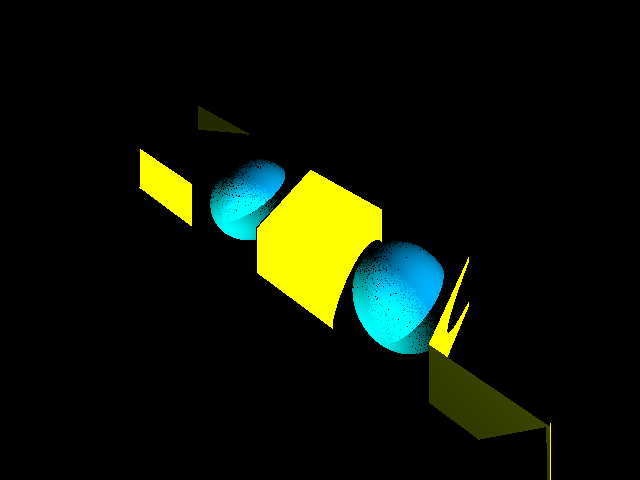
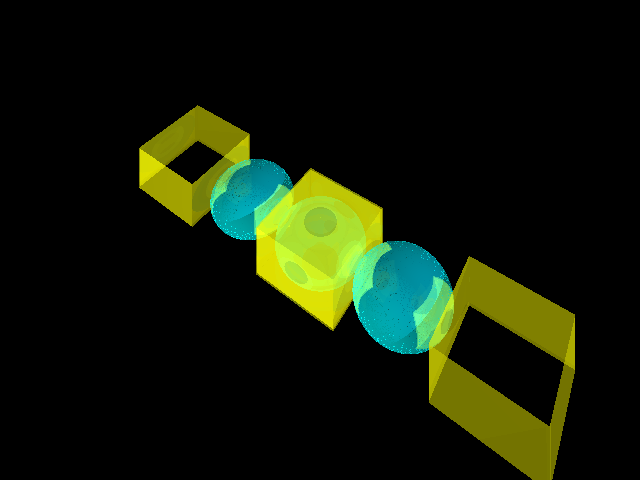
Ahora anda una refraction mentirosa, es transparente.

Changed region(s): [[0.2188, 0.2188, 0.9062, 1.0]]

diff --git a/src/main/java/org/cg/raycaster/ray/Raycaster.java b/src/main/java/org/cg/raycaster/ray/Raycaster.java
@@ -14,7 +14,8 @@ import org.cg.rendering.color.PlainColorChooser;
 
 public class Raycaster {
 
-	private final static int MAX_REFLECTIONS = 0;
+	private final static int MAX_REFLECTIONS = 5;
+	private final static int MAX_REFFRACTIONS = 5;
 	private Camera camera;
 
 	public Camera getCamera() {
@@ -25,6 +26,9 @@ public class Raycaster {
 		this.camera = camera;
 	}
 
+	PlainColorChooser colorChooser ;
+	boolean islightEnabled ;
+	LightColorChooser light ;
 	public BufferedImage raycast(boolean progress) {
 
 		camera.prepare();
@@ -40,14 +44,12 @@ public class Raycaster {
 		upauxi.scale(-(float) camera.dimensions.y);
 		startingPoint.add(upauxi);
 
-		LightColorChooser light = camera.getLightchooser();
-		boolean islightEnabled = camera.isLightingEnabled();
-		PlainColorChooser colorChooser = camera.getColorchooser();
+		light = camera.getLightchooser();
+		islightEnabled = camera.isLightingEnabled();
+		colorChooser = camera.getColorchooser();
 		for (int i = 0; i < camera.dimensions.x; i++) {
 
 			for (int j = 0; j < camera.dimensions.y; j++) {
-				float coef = 1.0f;
-				Color c = new Color(0, 0, 0);
 				Point3f pixelPos = new Point3f(startingPoint);
 
 				upauxi = new Vector3f(camera.up);
@@ -62,41 +64,8 @@ public class Raycaster {
 				Ray ray = new Ray(dir, pixelPos);
 
 				int level = 0;
-
-				do {
-					for (Primitive o : Scene.objects) {
-						if (o.intersectsBoundingBox(ray)) {
-							o.Intersects(ray);
-						}
-					}
-
-					if (ray.hit()) {
-
-						Vector3f n = ray.getObject().getNormal(
-								ray.getIntersectionPoint());
-
-						if (islightEnabled) {
-							c = light.getColor(ray, coef, c);
-							coef *= ray.getObject().getReflection();
-
-							Point3f newstartingPoint = ray
-									.getIntersectionPoint();
-							float reflet = 2 * n.dot(ray.direction);
-							Vector3f newDirection = new Vector3f(
-									ray.direction.x - reflet * n.x,
-									ray.direction.y - reflet * n.y,
-									ray.direction.z - reflet * n.z);
-
-							ray = new Ray(newDirection, newstartingPoint);
-							level++;
-						} else
-							c = colorChooser.getColor(ray);
-
-					} else
-						coef = 0;
-				} while (coef > 0.0f && level < MAX_REFLECTIONS
-						&& islightEnabled);
-
+				Color c = traceRay(ray, level, 1.0f);
+				
 				im.setRGB(i, j, c.getRGB());
 
 			}
@@ -109,6 +78,57 @@ public class Raycaster {
 		}
 
 		return im;
+	}
+	
+	
+	public Color traceRay(Ray ray, int depth, Float coef){
+		Color c = new Color(0, 0, 0);
+			for (Primitive o : Scene.objects) {
+				if (o.intersectsBoundingBox(ray)) {
+					o.Intersects(ray);
+				}
+			}
+
+			if (ray.hit()) {
+				if (islightEnabled) {
+					depth++;
+					c = ray.getObject().getBaseColor();
+					if(depth < MAX_REFLECTIONS && coef != 0)
+					{
+						
+						coef *= ray.getObject().getReflection();
+						Color creflect = traceRay(ray.Reflection(), depth, coef);
+						float col[] = c.getRGBColorComponents(null);
+						float col2[] = creflect.getRGBColorComponents(null);
+						col[0] = col[0]* (1-ray.getObject().getReflection()) + col2[0] * ray.getObject().getReflection();
+						col[1] = col[1]* (1-ray.getObject().getReflection()) + col2[1] * ray.getObject().getReflection();
+						col[2] = col[2]*(1-ray.getObject().getReflection())  + col2[2] * ray.getObject().getReflection();
+						c = new Color(col[0], col[1], col[2]);
+					}
+					
+					if(depth < MAX_REFFRACTIONS && coef != 0)
+					{
+						
+						coef *= ray.getObject().getRefraction();
+						
+						Color crefract = traceRay(ray.Refraction(), depth, coef);
+						
+						float col[] = c.getRGBColorComponents(null);
+						float col2[] = crefract.getRGBColorComponents(null);
+						col[0] = col[0]* (1-ray.getObject().getRefraction())  + col2[0] * ray.getObject().getRefraction();
+						col[1] = col[1]* (1-ray.getObject().getRefraction())  + col2[1] * ray.getObject().getRefraction();
+						col[2] = col[2]* (1-ray.getObject().getRefraction())  + col2[2] * ray.getObject().getRefraction();
+						c = new Color(col[0], col[1], col[2]);
+							
+					}
+					c  = light.getColor(ray, coef, c);
+              
+				} else
+					c = colorChooser.getColor(ray);
+
+			} else
+				coef = 0f;
+		return c;
 	}
 
 }

diff --git a/src/main/java/org/cg/raycaster/ray/Ray.java b/src/main/java/org/cg/raycaster/ray/Ray.java
@@ -115,6 +115,20 @@ public class Ray {
 		return obj;
 	}
 	
+	public Ray Refraction(){
+		Vector3f n = obj.getNormal(intersectionPoint);
+
+		Point3f newstartingPoint = intersectionPoint;
+		float reflet = 2 * n.dot(direction);
+		Vector3f newDirection = new Vector3f(
+				direction.x - reflet * n.x,
+				direction.y - reflet * n.y,
+				direction.z - reflet * n.z);
+
+		return new Ray(newDirection, newstartingPoint);
+		
+	}
+	
 	public boolean isPointInSegment(Point3f SegmentStart, Point3f SegmentFinish,
 			Point3f p) 
 	{
@@ -157,6 +171,19 @@ public class Ray {
 		return true;
 	}
 	
+	public Ray Reflection(){
+		
+		Vector3f n = obj.getNormal(intersectionPoint);
+
+		Point3f newstartingPoint = intersectionPoint;
+		float reflet = 2 * n.dot(direction);
+		Vector3f newDirection = new Vector3f(
+				direction.x - reflet * n.x,
+				direction.y - reflet * n.y,
+				direction.z - reflet * n.z);
+
+		return new Ray(direction, newstartingPoint);
+	}
 	public String toString()
 	{
 		 return "Ray:{Pos: "+position+",Dir: "+direction+"}";

diff --git a/src/main/java/org/cg/raycaster/Scene.java b/src/main/java/org/cg/raycaster/Scene.java
@@ -346,10 +346,19 @@ public class Scene {
 						.getElementsByTagName("reflection").item(0)
 						.getFirstChild();
 
+				Node refractionNode = matNode
+						.getElementsByTagName("refraction").item(0)
+						.getFirstChild();
+
+				
 				int id = Integer.parseInt(idNode.getNodeValue());
 
 				float reflection = Float.parseFloat(reflectionNode
 						.getNodeValue());
+
+				float refraction = Float.parseFloat(refractionNode
+						.getNodeValue());
+
 
 				Scanner sc = new Scanner(diffuseNode.getNodeValue());
 				sc.useDelimiter(";");
@@ -359,7 +368,7 @@ public class Scene {
 
 				Color c = new Color(r, g, b);
 
-				materials.put(id, new Material(c, reflection));
+				materials.put(id, new Material(c, reflection, refraction));
 
 			}
 

diff --git a/src/main/java/org/cg/rendering/Material.java b/src/main/java/org/cg/rendering/Material.java
@@ -6,6 +6,15 @@ public class Material {
 	
 	protected Color diffuse;
 	protected float reflection;
+	protected float refraction;
+	
+	public float getRefraction() {
+		return refraction;
+	}
+	
+	public void setRefraction(float refraction) {
+		this.refraction = refraction;
+	}
 	
 	public Color getDiffuse() {
 		return diffuse;
@@ -23,10 +32,12 @@ public class Material {
 		this.reflection = reflection;
 	}
 
-	public Material(Color diffuse, float reflection)
+	public Material(Color diffuse, float reflection, float refraction)
 	{
 		this.diffuse = diffuse;
 		this.reflection = reflection;
+		this.refraction = refraction;
+		
 	}
 
 }

diff --git a/src/main/java/org/cg/primitives/Sphere.java b/src/main/java/org/cg/primitives/Sphere.java
@@ -99,6 +99,10 @@ public class Sphere extends Primitive {
 	public Color getBaseColor() {
 		return material.getDiffuse();
 	}
+	@Override
+	public float getRefraction() {
+		return material.getRefraction();
+	}
 
 	public float getReflection() {
 		return material.getReflection();

diff --git a/src/main/java/org/cg/primitives/Primitive.java b/src/main/java/org/cg/primitives/Primitive.java
@@ -45,6 +45,9 @@ public abstract class Primitive implements Cloneable{
 	
 	public abstract float getReflection();
 	
+	public abstract float getRefraction();
+	
+	
 	public abstract Point3f getAnyPoint();
 	
 	public abstract float getDistanceToClosestPoint(Point3f origin);

diff --git a/src/main/java/org/cg/primitives/Triangle.java b/src/main/java/org/cg/primitives/Triangle.java
@@ -117,7 +117,10 @@ public class Triangle extends Primitive {
 		return material.getReflection();
 	}
 
-
+	@Override
+	public float getRefraction() {
+		return material.getRefraction();
+	}
 	@Override
 	public void setBaseColor(Color c) {
 		this.material.setDiffuse(c);

diff --git a/src/main/java/org/cg/primitives/Plane.java b/src/main/java/org/cg/primitives/Plane.java
@@ -101,6 +101,10 @@ public class Plane extends Primitive {
 	public Point3f getAnyPoint() {
 		return new Point3f(n.x, n.y, n.z + d);
 	}
+	@Override
+	public float getRefraction() {
+		return material.getRefraction();
+	}
 
 	public boolean equals(Primitive o) {
 

diff --git a/src/main/java/org/cg/primitives/Quadrilateral.java b/src/main/java/org/cg/primitives/Quadrilateral.java
@@ -35,6 +35,11 @@ public class Quadrilateral extends Primitive {
 	}
 
 	@Override
+	public float getRefraction() {
+		return t1.getRefraction();
+	}
+	
+	@Override
 	public void Intersects(Ray ray) {
 		t1.Intersects(ray);
 		t2.Intersects(ray);

diff --git a/src/main/java/org/cg/primitives/Box.java b/src/main/java/org/cg/primitives/Box.java
@@ -205,6 +205,10 @@ public class Box extends Primitive {
 		return maxDistanceFromMiddle;
 	}
 
+	@Override
+	public float getRefraction() {
+		return q1.getRefraction();
+	}
 
 
 	@Override
